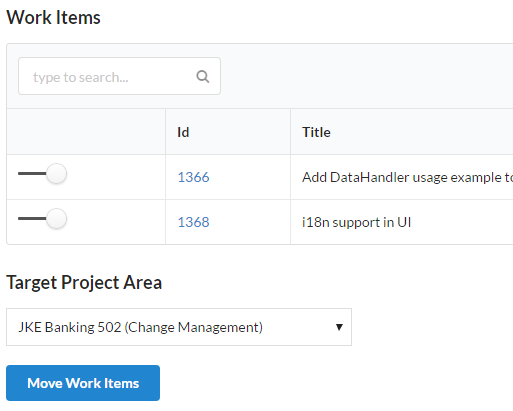
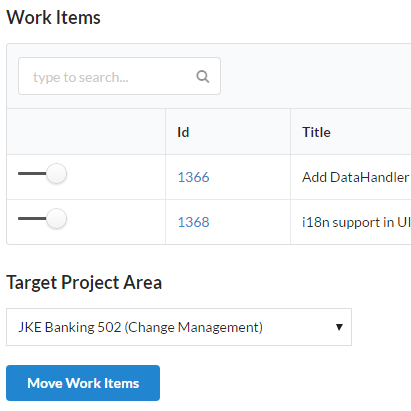
images should be quadratic

diff --git a/img/portfolio/README.md b/img/portfolio/README.md
@@ -1,0 +1,2 @@
+= Important - Quadratic Images required
+In order that all projects show up in the same manner on the community page, all portfolio images need to be quadratic!
